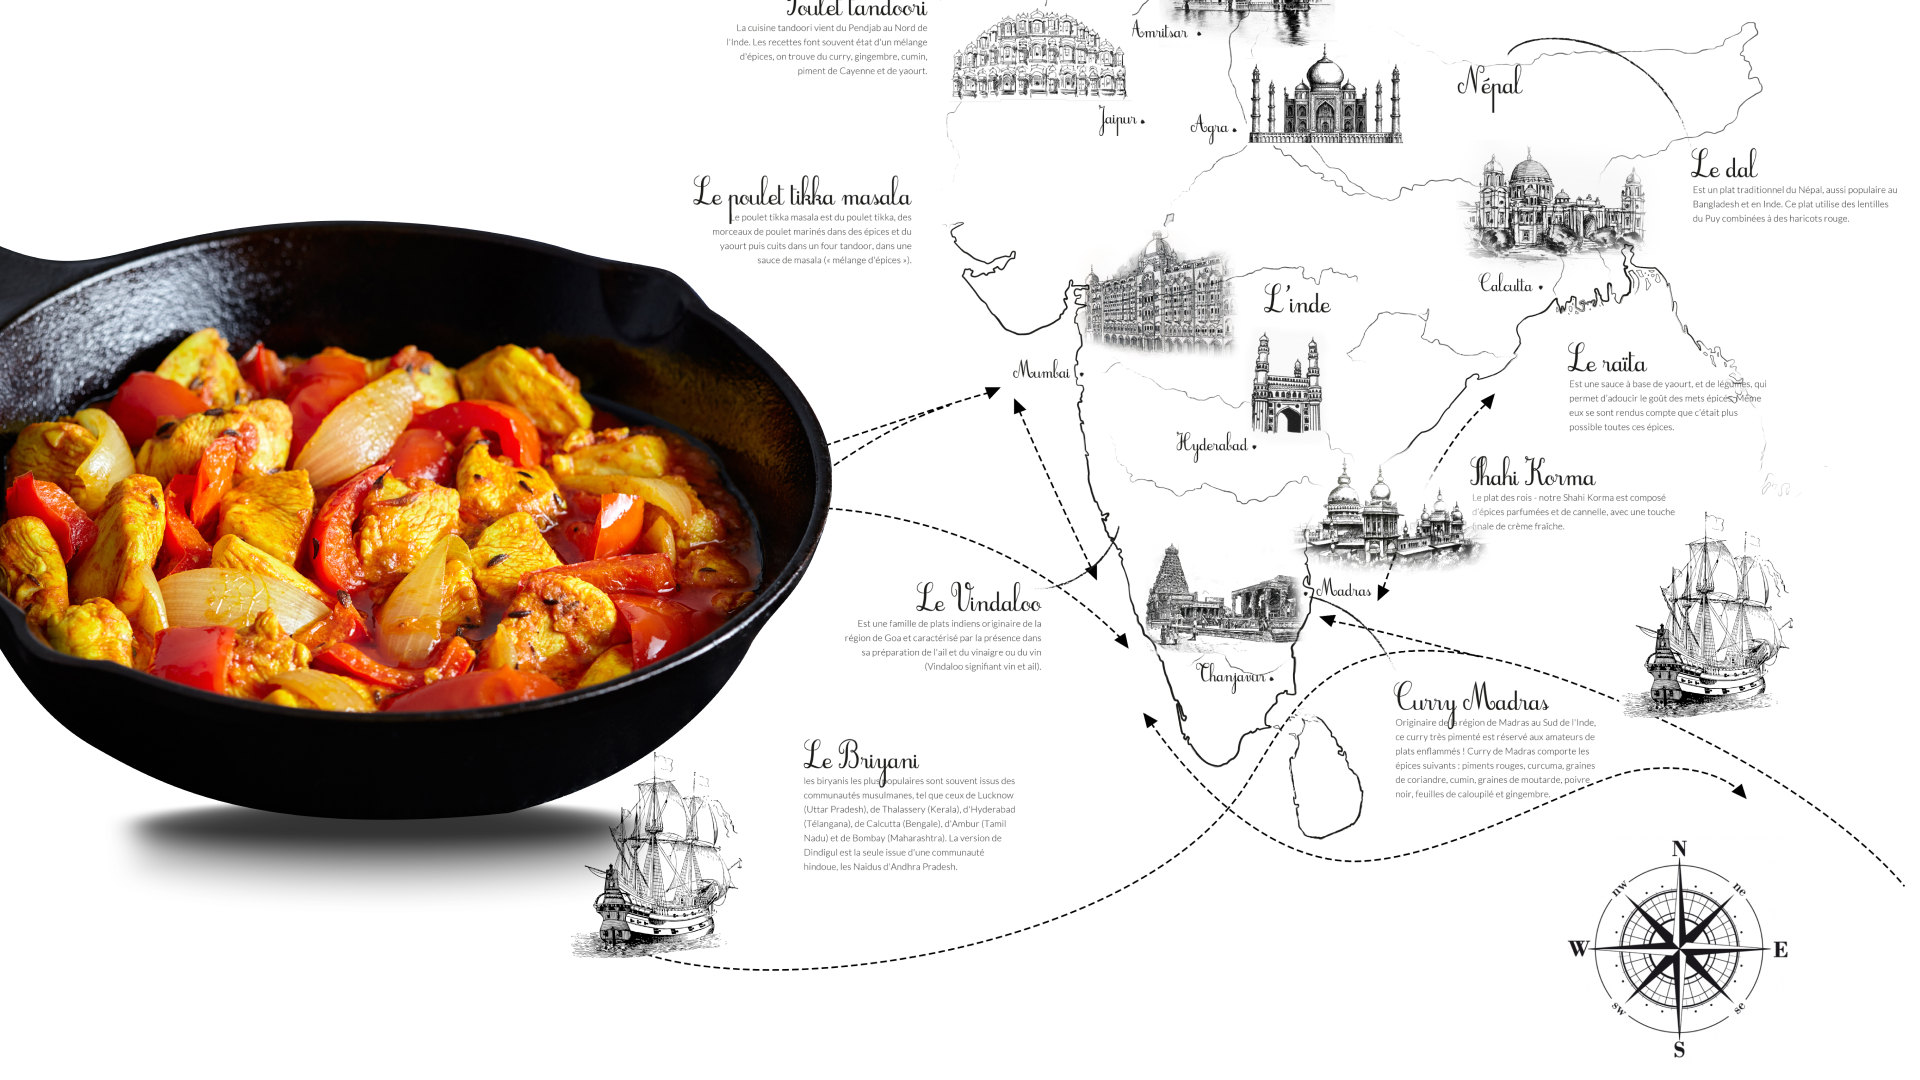
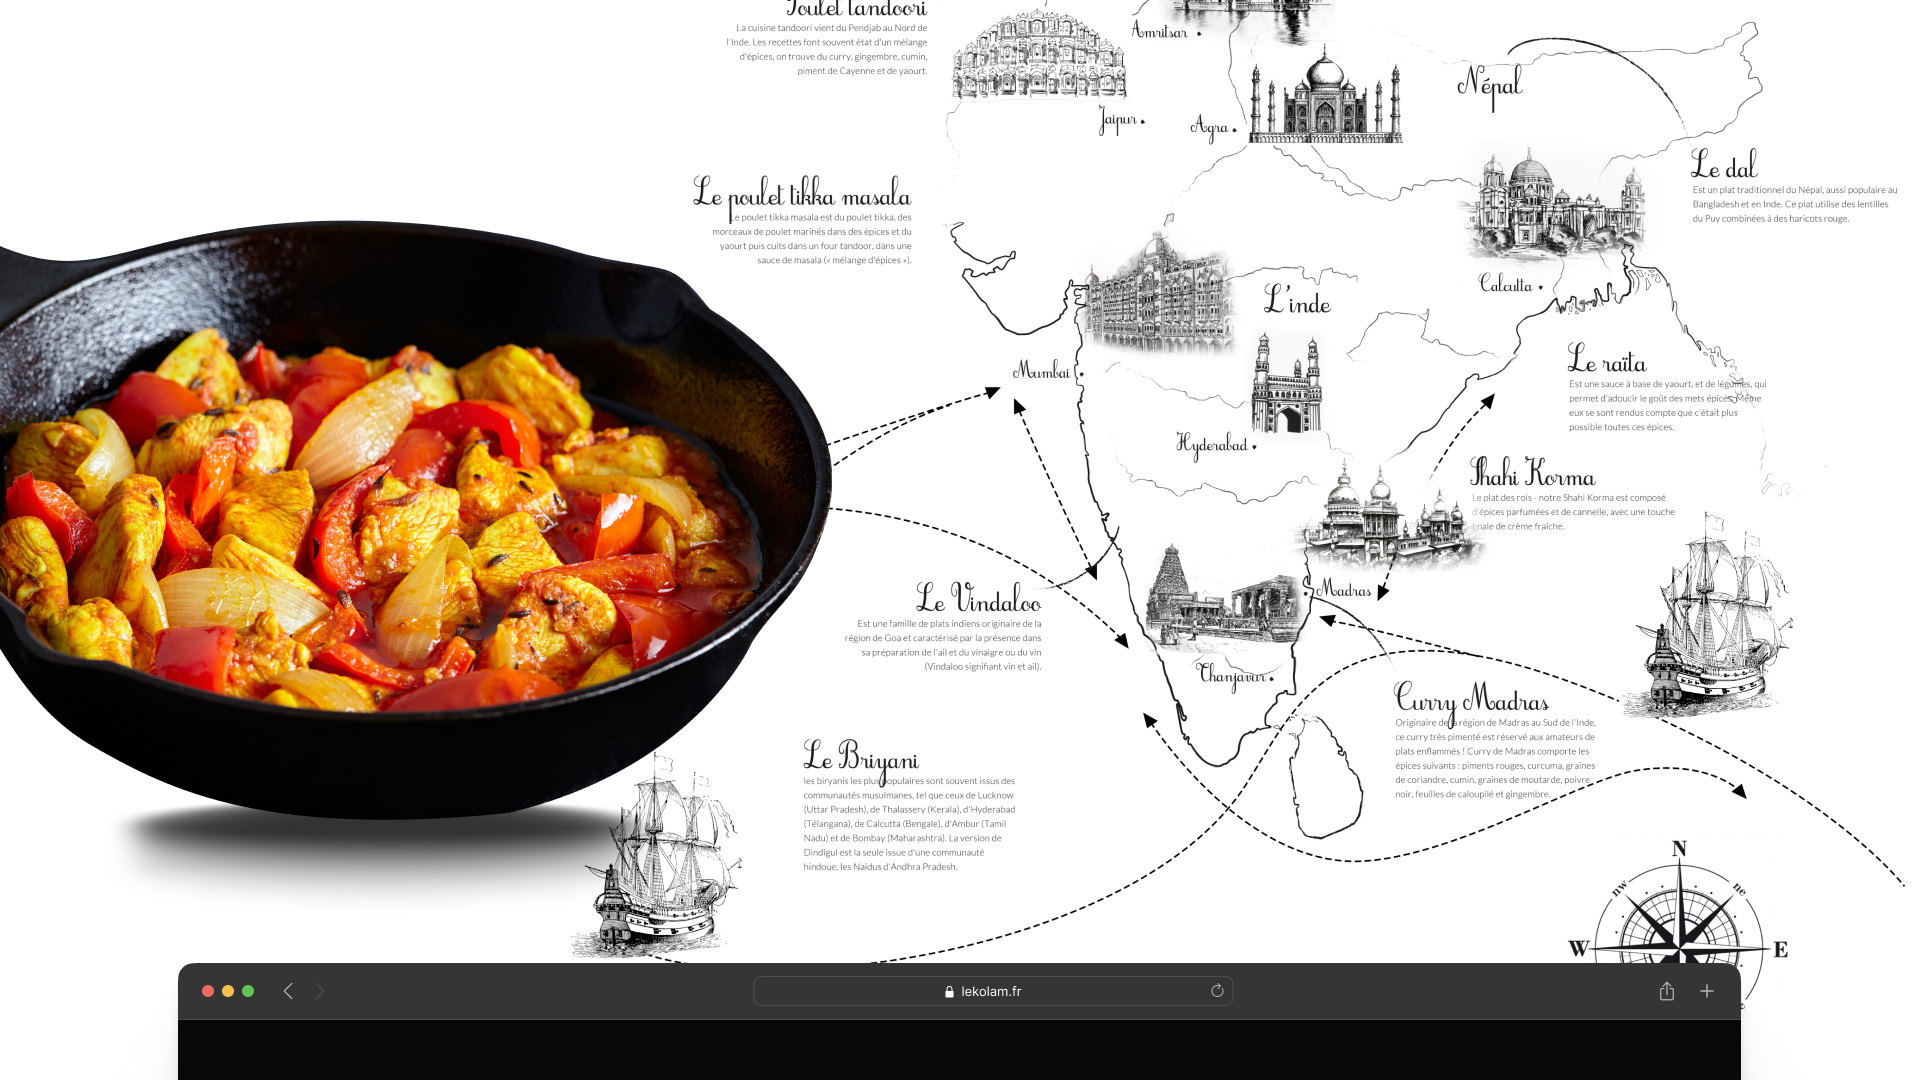
content(le-kolam): dix visuels, couverture mise a jour, lieu Val d'Europe
Sujee a livre six nouveaux visuels : site, page d'annonce, plats de la carte,
fiches epices, perspectives 3D de l'amenagement et affiche du buffet.
La couverture est remplacee. Le lieu, Val d'Europe, vient de la page d'annonce.

Changed region(s): [[0.0938, 0.8861, 0.9062, 1.0]]

diff --git a/web/content/projects.ts b/web/content/projects.ts
@@ -865,6 +865,7 @@ export const projects: Project[] = [
     name: "Le Kolam",
     client: "Le Kolam",
     year: "2017",
+    city: "Val d’Europe",
     disciplines: ["Direction artistique", "Identité", "Édition"],
     pitch:
       "Une identité indienne complète, du plan de salle au site : un motif kolam décliné sur la carte, la vitrine et les murs.",
@@ -932,7 +933,43 @@ export const projects: Project[] = [
       },
       {
         src: "/assets/img/projet/le-kolam/04.jpg",
-        alt: "Carte illustrée des régions et photo de curry",
+        alt: "Le site Le Kolam, photo de curry et carte illustrée de l’Inde",
+        width: 1920,
+        height: 1080,
+      },
+      {
+        src: "/assets/img/projet/le-kolam/05.jpg",
+        alt: "Page d’annonce du site, ouverture au Clos du Chêne, Val d’Europe",
+        width: 1920,
+        height: 1080,
+      },
+      {
+        src: "/assets/img/projet/le-kolam/06.jpg",
+        alt: "Six plats de la carte présentés sur fond noir",
+        width: 1920,
+        height: 1080,
+      },
+      {
+        src: "/assets/img/projet/le-kolam/07.jpg",
+        alt: "Fiches épices, curcuma, cardamome et cumin",
+        width: 1920,
+        height: 1080,
+      },
+      {
+        src: "/assets/img/projet/le-kolam/08.jpg",
+        alt: "Perspectives 3D de l’aménagement de la salle",
+        width: 1920,
+        height: 1080,
+      },
+      {
+        src: "/assets/img/projet/le-kolam/09.jpg",
+        alt: "Double page de la carte consacrée aux pains indiens",
+        width: 1920,
+        height: 1080,
+      },
+      {
+        src: "/assets/img/projet/le-kolam/10.jpg",
+        alt: "Affiche d’annonce du buffet indien sur un mur",
         width: 1920,
         height: 1080,
       },
